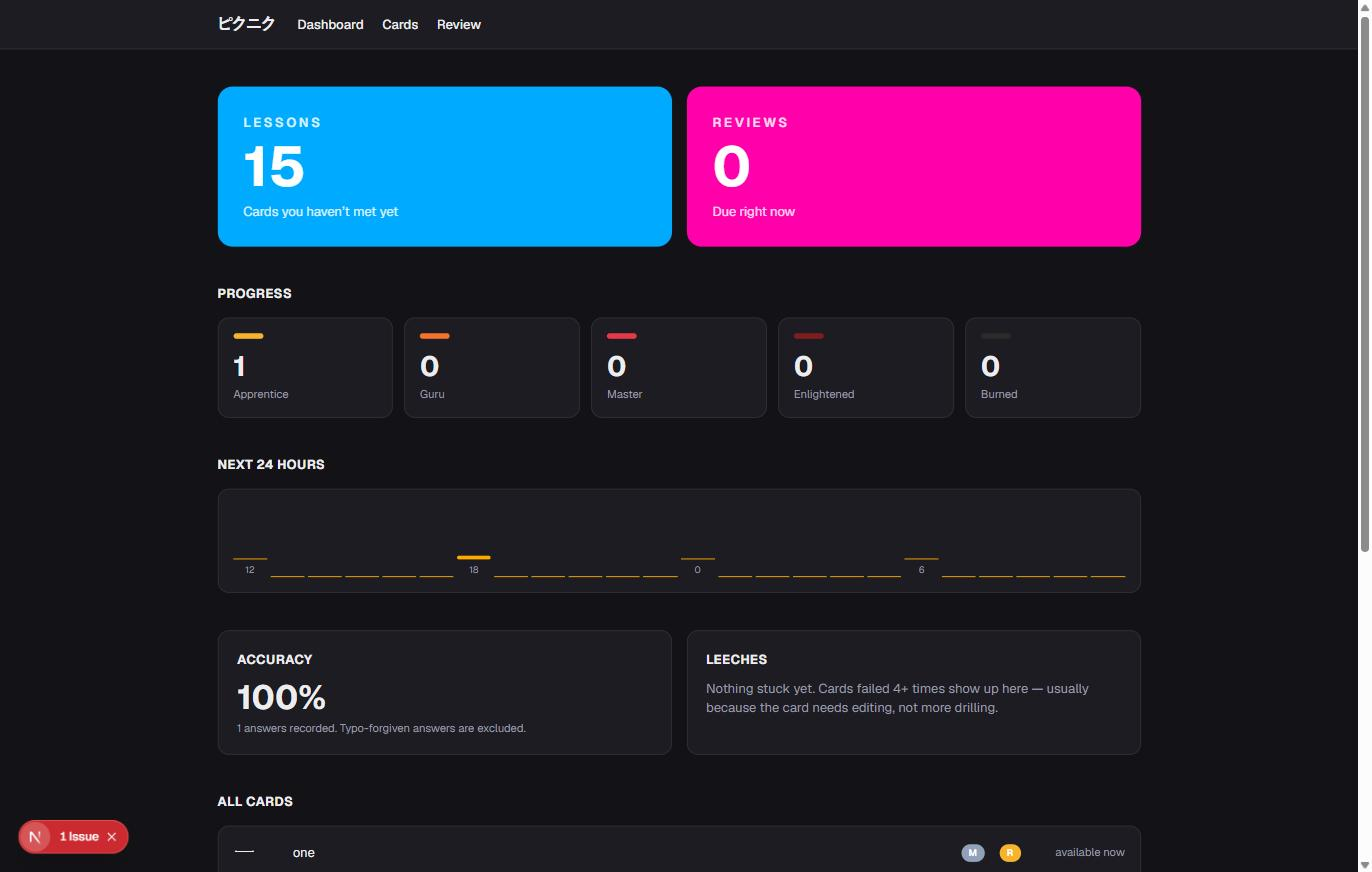
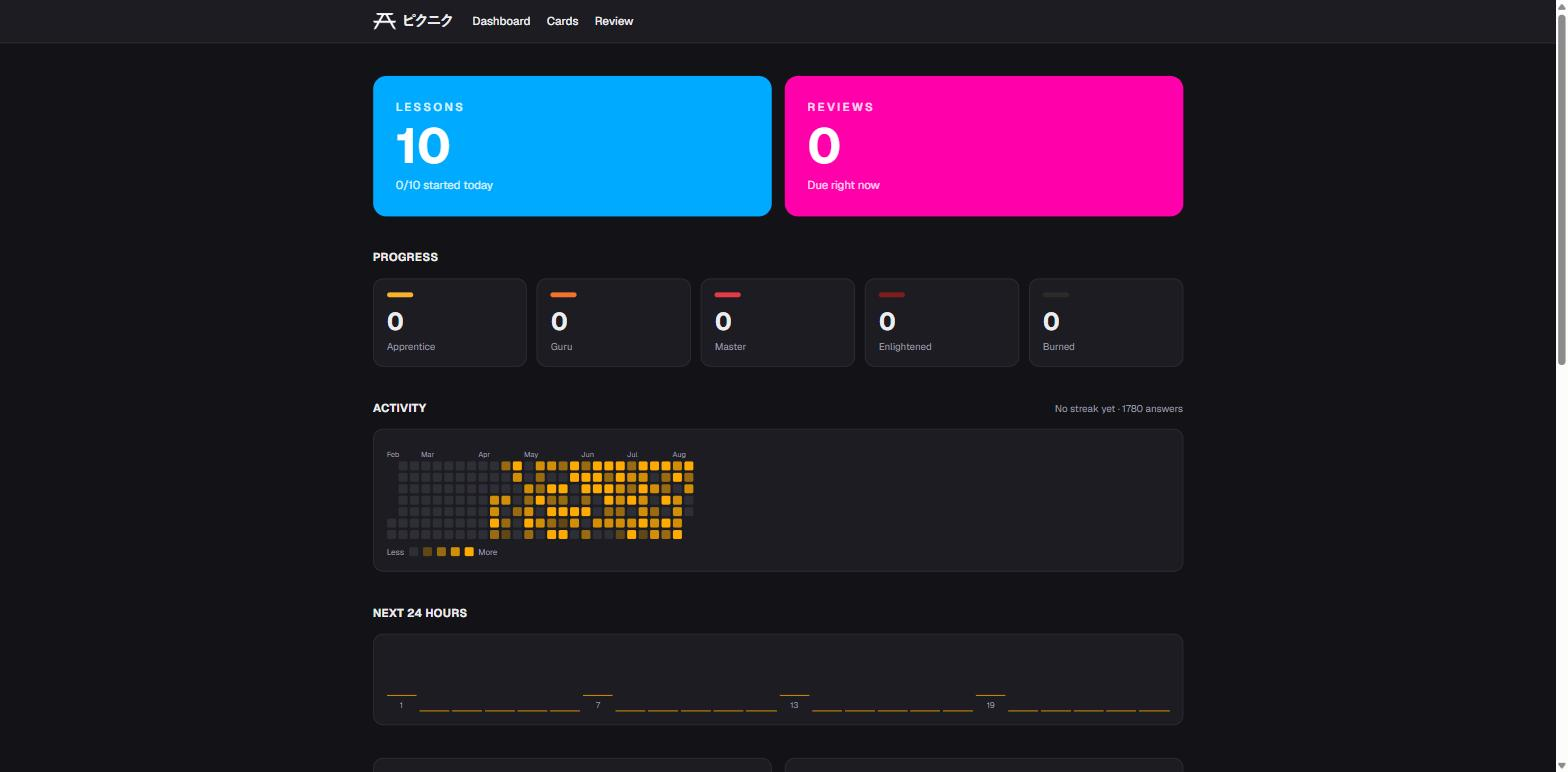
Pace new lessons per day, and chart activity on the dashboard
A daily cap on new items, so importing a textbook chapter doesn't turn into
a wall of reviews a week later. Reviews are deliberately never capped —
they're work already owed, and holding them back is what actually breaks a
schedule. Setting it to 0 pauses new material while a backlog clears.

A lesson is counted as the first time a question is ever answered, derived
from the log rather than from a counter, so it stays correct across devices
and can't drift.

Adds a GitHub-style activity heatmap over the last 26 weeks plus a streak,
both computed from the append-only log — which is the only record of what
happened when, since progress rows hold current state only.

Screenshots retaken from production builds so the Next dev-overlay bubble
is gone; the landing shot comes from a signed-out build.

diff --git a/src/app/page.tsx b/src/app/page.tsx
@@ -3,7 +3,9 @@
 import Link from "next/link";
 import Nav from "@/components/Nav";
 import Landing from "@/components/Landing";
+import Heatmap from "@/components/Heatmap";
 import { useStore, tasksFor } from "@/lib/store";
+import { currentStreak, lessonsStartedToday } from "@/lib/stats";
 import { STAGES, STAGE_CLASS, stageOf, isDue, untilDue, type Stage } from "@/lib/scheduler";
 
 /** Anki's default is 8; a smaller number surfaces problems sooner in a small deck. */
@@ -41,8 +43,15 @@ export default function Dashboard() {
     tasksFor(c, settings.production).map((task) => ({ card: c, task, state: progress[c.id]?.tasks?.[task] })),
   );
 
-  const lessons = questions.filter((q) => !q.state);
   const reviews = questions.filter((q) => q.state && isDue(q.state, now));
+
+  // Lessons shown is what's actually available today, not the whole backlog —
+  // a number you can't act on is just discouraging.
+  const startedToday = lessonsStartedToday(log, now);
+  const remainingToday = Math.max(0, settings.dailyLessons - startedToday);
+  const unstarted = questions.filter((q) => !q.state).length;
+  const lessonsAvailable = Math.min(unstarted, remainingToday);
+  const streak = currentStreak(log, now);
 
   const stageCounts = STAGES.reduce(
     (acc, s) => ({ ...acc, [s]: 0 }),
@@ -93,8 +102,12 @@ export default function Dashboard() {
             <p className="text-sm font-semibold tracking-[0.2em] uppercase opacity-85">
               Lessons
             </p>
-            <p className="mt-2 text-6xl font-bold">{lessons.length}</p>
-            <p className="mt-2 text-sm opacity-85">Cards you haven&rsquo;t met yet</p>
+            <p className="mt-2 text-6xl font-bold">{lessonsAvailable}</p>
+            <p className="mt-2 text-sm opacity-85">
+              {remainingToday === 0
+                ? `Daily limit reached — ${unstarted} waiting`
+                : `${startedToday}/${settings.dailyLessons} started today`}
+            </p>
           </Link>
           <Link
             href="/review"
@@ -118,6 +131,18 @@ export default function Dashboard() {
                 <p className="mt-1 text-xs text-muted">{s}</p>
               </div>
             ))}
+          </div>
+        </section>
+
+        <section className="mt-10">
+          <div className="flex items-baseline justify-between">
+            <h2 className="text-sm font-bold tracking-wide uppercase">Activity</h2>
+            <p className="text-xs text-muted">
+              {streak > 0 ? `${streak}-day streak` : "No streak yet"} · {log.length} answers
+            </p>
+          </div>
+          <div className="mt-4 rounded-xl border border-border bg-surface p-4">
+            <Heatmap log={log} />
           </div>
         </section>
 
@@ -203,6 +228,27 @@ export default function Dashboard() {
 
         <section className="mt-10">
           <h2 className="text-sm font-bold tracking-wide uppercase">Settings</h2>
+          <div className="mt-4 flex items-center justify-between gap-4 rounded-xl border border-border bg-surface p-5">
+            <span>
+              <span className="text-sm font-semibold">New items per day</span>
+              <span className="mt-1 block text-xs text-muted">
+                Caps how much new material enters your queue. Reviews are never held
+                back — they&rsquo;re work already owed. Set 0 to pause new lessons while
+                you catch up.
+              </span>
+            </span>
+            <input
+              type="number"
+              min={0}
+              max={100}
+              value={settings.dailyLessons}
+              onChange={(e) =>
+                setSetting("dailyLessons", Math.max(0, Number(e.target.value) || 0))
+              }
+              className="w-20 shrink-0 rounded-lg border border-border bg-background px-3 py-2 text-center outline-none focus:border-primary"
+            />
+          </div>
+
           <label className="mt-4 flex cursor-pointer items-start gap-3 rounded-xl border border-border bg-surface p-5">
             <input
               type="checkbox"

diff --git a/src/components/Heatmap.tsx b/src/components/Heatmap.tsx
@@ -1,0 +1,90 @@
+"use client";
+
+import { answersByDay, type DayCount } from "@/lib/stats";
+import type { ReviewLogEntry } from "@/lib/types";
+
+const WEEKS = 26;
+const DAYS = WEEKS * 7;
+
+const MONTHS = ["Jan", "Feb", "Mar", "Apr", "May", "Jun", "Jul", "Aug", "Sep", "Oct", "Nov", "Dec"];
+
+/**
+ * Four filled levels rather than a continuous scale: on a grid this small,
+ * shades finer than this are indistinguishable.
+ */
+function level(count: number, busy: number): 0 | 1 | 2 | 3 | 4 {
+  if (count === 0) return 0;
+  const share = count / Math.max(busy, 1);
+  if (share > 0.66) return 4;
+  if (share > 0.33) return 3;
+  if (share > 0.1) return 2;
+  return 1;
+}
+
+const FILL: Record<number, string> = {
+  0: "bg-border",
+  1: "bg-accent/30",
+  2: "bg-accent/55",
+  3: "bg-accent/80",
+  4: "bg-accent",
+};
+
+export default function Heatmap({ log }: { log: ReviewLogEntry[] }) {
+  const days = answersByDay(log, DAYS);
+  const busiest = Math.max(...days.map((d) => d.count), 0);
+
+  // Pad the front so the first column starts on a Sunday and every column is a
+  // real week; without this the month labels drift out of alignment.
+  const lead = days[0].date.getDay();
+  const cells: (DayCount | null)[] = [...Array<null>(lead).fill(null), ...days];
+
+  const columns: (DayCount | null)[][] = [];
+  for (let i = 0; i < cells.length; i += 7) columns.push(cells.slice(i, i + 7));
+
+  return (
+    <div className="overflow-x-auto">
+      <div className="inline-flex min-w-full flex-col gap-1">
+        {/* Month label sits above the column where that month first appears. */}
+        <div className="flex gap-[3px]">
+          {columns.map((col, i) => {
+            const first = col.find(Boolean);
+            const prev = columns[i - 1]?.find(Boolean);
+            const show =
+              first && (!prev || prev.date.getMonth() !== first.date.getMonth());
+            return (
+              <div key={i} className="w-[11px] text-[9px] leading-none text-muted">
+                {show ? MONTHS[first.date.getMonth()] : ""}
+              </div>
+            );
+          })}
+        </div>
+
+        <div className="flex gap-[3px]">
+          {columns.map((col, i) => (
+            <div key={i} className="flex flex-col gap-[3px]">
+              {col.map((day, j) =>
+                day === null ? (
+                  <div key={j} className="h-[11px] w-[11px]" />
+                ) : (
+                  <div
+                    key={j}
+                    title={`${day.count} answer${day.count === 1 ? "" : "s"} on ${day.key}`}
+                    className={`${FILL[level(day.count, busiest)]} h-[11px] w-[11px] rounded-[2px]`}
+                  />
+                ),
+              )}
+            </div>
+          ))}
+        </div>
+
+        <div className="mt-1 flex items-center gap-1.5 text-[10px] text-muted">
+          <span>Less</span>
+          {[0, 1, 2, 3, 4].map((l) => (
+            <div key={l} className={`${FILL[l]} h-[11px] w-[11px] rounded-[2px]`} />
+          ))}
+          <span>More</span>
+        </div>
+      </div>
+    </div>
+  );
+}

diff --git a/src/lib/stats.ts b/src/lib/stats.ts
@@ -1,0 +1,88 @@
+/**
+ * Derived history, computed from the review log.
+ *
+ * The log is the only durable record of what happened when — progress rows only
+ * hold current state — which is why it is append-only and why these read from it
+ * rather than from anything summarised.
+ */
+
+import type { ReviewLogEntry } from "./types";
+
+/** Local-time day key. Using UTC here would roll the day over mid-evening. */
+export function dayKey(d: Date): string {
+  return `${d.getFullYear()}-${String(d.getMonth() + 1).padStart(2, "0")}-${String(
+    d.getDate(),
+  ).padStart(2, "0")}`;
+}
+
+/**
+ * How many *new* items were started today.
+ *
+ * A lesson is the first time a question is ever answered, so it's the earliest
+ * log entry for that (card, task) pair — not simply an entry dated today, which
+ * would count every ordinary review as a lesson.
+ */
+export function lessonsStartedToday(log: ReviewLogEntry[], now = new Date()): number {
+  const firstSeen = new Map<string, number>();
+  for (const entry of log) {
+    const key = `${entry.cardId}:${entry.task}`;
+    const at = firstSeen.get(key);
+    if (at === undefined || entry.at < at) firstSeen.set(key, entry.at);
+  }
+  const today = dayKey(now);
+  let count = 0;
+  for (const at of firstSeen.values()) {
+    if (dayKey(new Date(at)) === today) count += 1;
+  }
+  return count;
+}
+
+export interface DayCount {
+  key: string;
+  date: Date;
+  count: number;
+}
+
+/**
+ * Answers per day for the last `days` days, oldest first, with empty days
+ * included — a heatmap needs the gaps as much as the activity.
+ */
+export function answersByDay(
+  log: ReviewLogEntry[],
+  days: number,
+  now = new Date(),
+): DayCount[] {
+  const counts = new Map<string, number>();
+  for (const entry of log) {
+    const key = dayKey(new Date(entry.at));
+    counts.set(key, (counts.get(key) ?? 0) + 1);
+  }
+
+  const out: DayCount[] = [];
+  const start = new Date(now);
+  start.setHours(0, 0, 0, 0);
+  start.setDate(start.getDate() - (days - 1));
+  for (let i = 0; i < days; i++) {
+    const date = new Date(start);
+    date.setDate(start.getDate() + i);
+    const key = dayKey(date);
+    out.push({ key, date, count: counts.get(key) ?? 0 });
+  }
+  return out;
+}
+
+/** Consecutive days with at least one answer, counting back from today. */
+export function currentStreak(log: ReviewLogEntry[], now = new Date()): number {
+  const active = new Set(log.map((e) => dayKey(new Date(e.at))));
+  let streak = 0;
+  const cursor = new Date(now);
+  cursor.setHours(0, 0, 0, 0);
+  // Today not being done yet shouldn't break a streak, so start from yesterday
+  // if there's nothing today.
+  if (!active.has(dayKey(cursor))) cursor.setDate(cursor.getDate() - 1);
+  while (active.has(dayKey(cursor))) {
+    streak += 1;
+    cursor.setDate(cursor.getDate() - 1);
+  }
+  return streak;
+}

diff --git a/src/app/review/page.tsx b/src/app/review/page.tsx
@@ -8,6 +8,7 @@ import SignIn from "@/components/SignIn";
 import { useStore, stateFor, newState } from "@/lib/store";
 import { applyRating, outcomeToRating } from "@/lib/scheduler";
 import { applyAnswer, buildQueue, pickNext, remaining } from "@/lib/session";
+import { lessonsStartedToday } from "@/lib/stats";
 import type { Card, Progress, SessionQuestion, TaskKind } from "@/lib/types";
 import type { Store } from "@/lib/store";
 
@@ -25,7 +26,12 @@ export default function Review() {
 function Session({ store }: { store: Store }) {
   const { cards, progress, recordAnswer } = store;
   const [queue, setQueue] = useState<SessionQuestion[]>(() =>
-    buildQueue(cards, progress, store.settings.production),
+    buildQueue(
+      cards,
+      progress,
+      store.settings.production,
+      Math.max(0, store.settings.dailyLessons - lessonsStartedToday(store.log)),
+    ),
   );
   const [lastCardId, setLastCardId] = useState<string | null>(null);
   const [tally, setTally] = useState({ correct: 0, wrong: 0 });

diff --git a/src/lib/session.ts b/src/lib/session.ts
@@ -28,14 +28,22 @@ export function buildQueue(
   cards: Card[],
   progress: Record<string, Progress>,
   production = false,
+  /** Remaining new items allowed today. Reviews are never withheld. */
+  lessonBudget = Infinity,
   now = new Date(),
 ): SessionQuestion[] {
   const queue: SessionQuestion[] = [];
+  let budget = lessonBudget;
   for (const card of cards) {
     for (const task of tasksFor(card, production)) {
-      if (isDue(progress[card.id]?.tasks?.[task], now)) {
-        queue.push({ cardId: card.id, task, choiceDelay: 0, answered: false, incorrect: 0 });
+      const state = progress[card.id]?.tasks?.[task];
+      if (!isDue(state, now)) continue;
+      if (!state) {
+        // Never studied — this is a lesson, and lessons are what get paced.
+        if (budget <= 0) continue;
+        budget -= 1;
       }
+      queue.push({ cardId: card.id, task, choiceDelay: 0, answered: false, incorrect: 0 });
     }
   }
   for (let i = queue.length - 1; i > 0; i--) {

diff --git a/src/lib/store.ts b/src/lib/store.ts
@@ -39,9 +39,15 @@ export interface Settings {
    * most cards, so turning it on meaningfully increases the daily load.
    */
   production: boolean;
+  /**
+   * How many new items may be started per day. Reviews are never capped —
+   * they're work already owed, and deferring them defeats the scheduling.
+   * 0 means no new lessons at all; useful for clearing a backlog.
+   */
+  dailyLessons: number;
 }
 
-const DEFAULT_SETTINGS: Settings = { autoplay: true, production: false };
+const DEFAULT_SETTINGS: Settings = { autoplay: true, production: false, dailyLessons: 10 };
 
 export interface Snapshot {
   ready: boolean;

diff --git a/README.md b/README.md
@@ -74,8 +74,14 @@ your own recall. The grader's verdict becomes the rating:
 Apprentice → Guru → Master → Enlightened → Burned survive as a display layer derived from
 stability, because "Burned" motivates and `stability = 47.3 days` does not.
 
+### Paced, and visible
+
+New material is capped per day, so a big import doesn't become a wall of reviews a week
+later. Reviews themselves are never withheld — they're work already owed, and deferring
+them is what breaks a schedule. An activity heatmap shows what you've actually done.
+
 <div align="center">
-<img src="docs/dashboard.jpg" alt="Dashboard" width="800">
+<img src="docs/dashboard.jpg" alt="Dashboard with the activity heatmap" width="800">
 </div>
 
 ### Missed questions can't come straight back
@@ -94,8 +100,14 @@ surfaced for editing — a fix a fixed-curriculum app cannot offer.
 
 - **Two-field card entry.** Paste `猫(ねこ)` and the reading is split out for you; the card
   type is inferred; the reading field only appears when the word actually hides one.
+
+  <div align="center">
+  <img src="docs/cards.jpg" alt="Adding a card" width="760">
+  </div>
+
 - **Kana input.** Romaji becomes kana as you type, via WaniKani's own
-  [WanaKana](https://github.com/WaniKani/WanaKana). Katakana cards switch automatically.
+  [WanaKana](https://github.com/WaniKani/WanaKana) — `neko` → ねこ, and capitals give
+  katakana, so `KO-HI-` → コーヒー.
 - **Pronunciation** through the browser's speech synthesis — no audio files, and it speaks
   the *reading*, since synthesisers guess kanji and get 大人 wrong.
 - **English → Japanese** production questions, optional. A word that legitimately fits the
